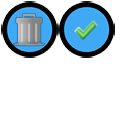
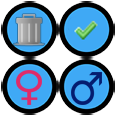
Adding gender place holder buttons, also implemented screen3 and started screen4

diff --git a/Tamagotchi/src/com/redditandroiddevelopers/tamagotchi/screens/CreatureCreationScreen.java b/Tamagotchi/src/com/redditandroiddevelopers/tamagotchi/screens/CreatureCreationScreen.java
@@ -3,6 +3,7 @@ package com.redditandroiddevelopers.tamagotchi.screens;
 
 import com.badlogic.gdx.Gdx;
 import com.badlogic.gdx.graphics.Color;
+import com.badlogic.gdx.graphics.g2d.NinePatch;
 import com.badlogic.gdx.graphics.g2d.SpriteBatch;
 import com.badlogic.gdx.graphics.g2d.TextureAtlas;
 import com.badlogic.gdx.graphics.g2d.TextureRegion;
@@ -24,6 +25,8 @@ import com.badlogic.gdx.scenes.scene2d.ui.ClickListener;
 import com.badlogic.gdx.scenes.scene2d.ui.Image;
 import com.badlogic.gdx.scenes.scene2d.ui.Label;
 import com.badlogic.gdx.scenes.scene2d.ui.Label.LabelStyle;
+import com.badlogic.gdx.scenes.scene2d.ui.TextField;
+import com.badlogic.gdx.scenes.scene2d.ui.TextField.TextFieldStyle;
 import com.badlogic.gdx.utils.Scaling;
 import com.redditandroiddevelopers.tamagotchi.TamagotchiAssets.TextureAtlasAsset;
 import com.redditandroiddevelopers.tamagotchi.TamagotchiGame;
@@ -56,6 +59,7 @@ public class CreatureCreationScreen extends CommonScreen implements ClickListene
     private static final String GRP_BACKGROUND = "background";
     private static final String GRP_TEXT = "text";
     private static final String GRP_TOP_BUTTONS = "top_buttons";
+    private static final String GRP_GENDER_BUTTONS = "gender_buttons";
 
     // fonts
     private static final String ROBOTO_REGULAR = "fonts/Roboto-Regular.ttf";
@@ -70,9 +74,12 @@ public class CreatureCreationScreen extends CommonScreen implements ClickListene
     private float scaleFactor;
 
     // buttons
-    private static final int ACCEPT = 0;
-    private static final int REMOVE = 1;
-    private static final int NUM_BUTTONS = 2;
+    private static final int TOPBTN_ACCEPT = 0;
+    private static final int TOPBTN_REMOVE = 1;
+    private static final int TOPBTN_NUM_BUTTONS = 2;
+    private static final int GENDERBTN_GIRL = 0;
+    private static final int GENDERBTN_BOY = 1;
+    private static final int GENDERBTN_NUM_BUTTONS = 2;
 
     private final int centerX = Gdx.graphics.getWidth() / 2;
     private final int centerY = Gdx.graphics.getHeight() / 2;
@@ -82,9 +89,15 @@ public class CreatureCreationScreen extends CommonScreen implements ClickListene
     private LabelStyle labelStyle40;
     private LabelStyle labelStyle20;
 
-    private Button[] buttons;
+    private Button[] topButtons;
+    private Button[] genderButtons;
 
     private static final float DEFAULT_FADE_TIME = 0.5f;
+    
+    private TextFieldStyle textFieldStyle1 = new TextFieldStyle();
+    
+    // load texture atlas
+    TextureAtlas textureAtlas;
 
     /**
      * Creates a new instance of the CreatureCreationScreen.
@@ -110,6 +123,7 @@ public class CreatureCreationScreen extends CommonScreen implements ClickListene
         rightMark = Gdx.graphics.getWidth() - padding;
         scaleFactor = 0.75f;
         currentState = state.SCREEN_INIT;
+        textureAtlas = game.assets.getAsset(TextureAtlasAsset.CREATE_CREATURE);
         initializeInput();
         initializeFonts();
         initializeLayouts();
@@ -163,11 +177,6 @@ public class CreatureCreationScreen extends CommonScreen implements ClickListene
         final Group backgroundGroup = new Group(GRP_BACKGROUND);
         final Group textGroup = new Group(GRP_TEXT);
         final Group topButtonsGroup = new Group(GRP_TOP_BUTTONS);
-
-        /* load textures */
-
-        // load texture atlas
-        final TextureAtlas textureAtlas = game.assets.getAsset(TextureAtlasAsset.CREATE_CREATURE);
 
         // get texture regions from loaded texture atlas
         final TextureRegion creatureTextureRegion = textureAtlas.findRegion("PetDefault");
@@ -247,13 +256,13 @@ public class CreatureCreationScreen extends CommonScreen implements ClickListene
 
         // position buttons within group and add them to the 'topButtonsGroup'
         final int width = interactButtonTextureRegions[0].getRegionWidth() + marginBetweenButtons;
-        buttons = new Button[NUM_BUTTONS];
-        for (int i = 0; i < NUM_BUTTONS; i++) {
+        topButtons = new Button[TOPBTN_NUM_BUTTONS];
+        for (int i = 0; i < TOPBTN_NUM_BUTTONS; i++) {
             final Button button = new Button(interactButtonTextureRegions[i]);
             button.x = width * i;
             button.setClickListener(this);
             topButtonsGroup.addActor(button);
-            buttons[i] = button;
+            topButtons[i] = button;
         }
 
         // adjust width of 'topButtons' group
@@ -298,10 +307,67 @@ public class CreatureCreationScreen extends CommonScreen implements ClickListene
      */
     private void initializeLayout3(boolean visible) {
         // TODO: initialize third layout
+    	textFieldStyle1.font = FontHelper.createBitmapFont(ROBOTO_REGULAR, 20f, stage);
+    	textFieldStyle1.fontColor = Color.WHITE;
+    	
+    	//nameField
+        TextField nameField = new TextField("boosh", textFieldStyle1);
+        nameField.x = centerX - (stage.width() / 3) - (nameField.width / 4);
+        nameField.y = centerY;
+        nameField.visible = false;
+        
+        stage.addActor(nameField);
     }
 
     private void initializeLayout4(boolean visible) {
-        // TODO: initialize fourth layout
+    	
+        final Group genderBtnGroup = new Group(GRP_GENDER_BUTTONS);
+        
+        //Gender Label
+        String text = "Gender";
+        Label gender = new Label(text, labelStyle80, "gender");
+        //add padding
+        //gender.width += 20;
+        gender.x = centerX - (stage.width() / 3) - (gender.width / 4);
+        gender.y = centerY;
+        gender.visible = false;
+        
+        // create buttons names
+        final String[] interactButtonIDs = new String[] {
+                "CreateButtonGirl",
+                "CreateButtonBoy",
+        };
+
+        // load texture regions for buttons in top right corner
+        final TextureRegion[] interactButtonTextureRegions = new TextureRegion[interactButtonIDs.length];
+        for (int i = 0; i < interactButtonIDs.length; i++) {
+            interactButtonTextureRegions[i] = textureAtlas.findRegion(interactButtonIDs[i]);
+        }
+
+        // set margin between buttons
+        final int marginBetweenButtons = 10;
+
+        // position buttons within group and add them to the 'topButtonsGroup'
+        final int width = interactButtonTextureRegions[0].getRegionWidth() + marginBetweenButtons;
+        genderButtons = new Button[GENDERBTN_NUM_BUTTONS];
+        for (int i = 0; i < GENDERBTN_NUM_BUTTONS; i++) {
+            final Button button = new Button(interactButtonTextureRegions[i]);
+            button.x = width * i;
+            button.setClickListener(this);
+            genderBtnGroup.addActor(button);
+            genderButtons[i] = button;
+        }
+        genderBtnGroup.visible = false;
+
+        // adjust width of 'topButtons' group
+        genderBtnGroup.width = width * genderBtnGroup.getActors().size();
+        // position topButtons in top right corner
+        genderBtnGroup.x = gender.x + (gender.width / 4);
+        genderBtnGroup.y = gender.y - (gender.height / 4);
+        
+        stage.addActor(gender);
+        stage.addActor(genderBtnGroup);
+
     }
 
     /**
@@ -332,6 +398,7 @@ public class CreatureCreationScreen extends CommonScreen implements ClickListene
         if (currentState == state.SCREEN1) {
             return;
         }
+        Gdx.app.debug(TAG, "Going to Screen1");
         // set currentState to SCREEN 1
         currentState = state.SCREEN1;
 
@@ -382,9 +449,17 @@ public class CreatureCreationScreen extends CommonScreen implements ClickListene
         if (currentState == state.SCREEN2) {
             return;
         }
+        Gdx.app.debug(TAG, "Going to Screen2");
+        
         // set currentState to SCREEN 2
         currentState = state.SCREEN2;
 
+        // fade out top buttons
+        	//:TODO Fade out
+        	//Leave this out for now so we can navigate
+        	//stage.findActor(GRP_TOP_BUTTONS).visible = false;
+        
+        
         // remove gestureDetector to prevent swiping after first screen
         game.inputMultiplexer.removeProcessor(gestureDetector);
 
@@ -433,9 +508,12 @@ public class CreatureCreationScreen extends CommonScreen implements ClickListene
         if (currentState == state.SCREEN3) {
             return;
         }
+        Gdx.app.debug(TAG, "Going to Screen3");
         // set currentState to SCREEN 3
         currentState = state.SCREEN3;
 
+        //stage.findActor(textf)
+        
         stage.findActor("summary").action(FadeOut.$(DEFAULT_FADE_TIME));
     }
 
@@ -443,10 +521,13 @@ public class CreatureCreationScreen extends CommonScreen implements ClickListene
         if (currentState == state.SCREEN4) {
             return;
         }
+        Gdx.app.debug(TAG, "Going to Screen4");
+        
         // set currentState to SCREEN 4
         currentState = state.SCREEN4;
-
-        // TODO: Add third transition
+        
+        stage.findActor("gender").visible = true;
+        stage.findActor(GRP_GENDER_BUTTONS).visible = true;
     }
 
     private Image getSelectedCreature() {
@@ -502,12 +583,16 @@ public class CreatureCreationScreen extends CommonScreen implements ClickListene
 
     @Override
     public void click(Actor actor, float x, float y) {
-        if (actor == buttons[ACCEPT]) {
+        if (actor == topButtons[TOPBTN_ACCEPT]) {
             Gdx.app.debug(TAG, "Touch on Accept button");
             goToPreviousScreen();
-        } else if (actor == buttons[REMOVE]) {
+        } else if (actor == topButtons[TOPBTN_REMOVE]) {
             Gdx.app.debug(TAG, "Touch on Remove button");
             goToNextScreen();
+        } else if (actor == genderButtons[GENDERBTN_BOY]) {
+            Gdx.app.debug(TAG, "Touch on BOY button");
+        } else if (actor == genderButtons[GENDERBTN_GIRL]) {
+            Gdx.app.debug(TAG, "Touch on GIRL button");
         } else if (creatureList.contains(actor)) {
             Gdx.app.debug(TAG, "Hit on " + actor.name + " detected");
         }
